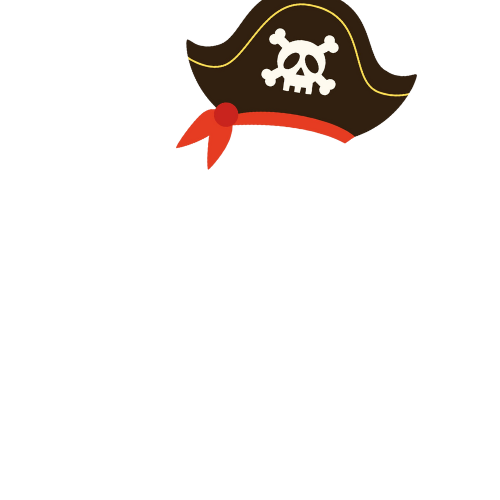
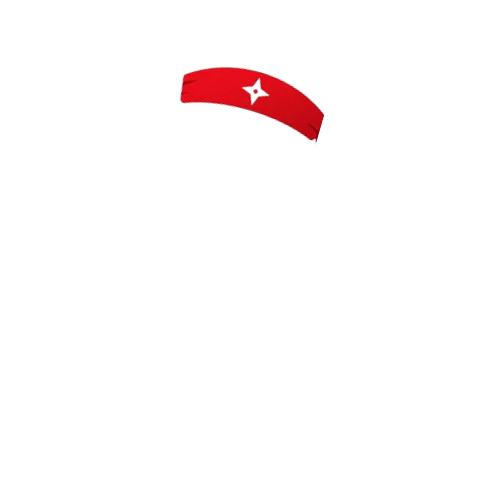
aaa

Changed region(s): [[0.36, 0.0, 0.84, 0.33]]

diff --git a/src/components/CatMeme.jsx b/src/components/CatMeme.jsx
@@ -5,7 +5,7 @@ import SelectionLayer from './SelectionLayer';
 const CatMeme = () => {
     const [selected, setSelected] = useState({
         background: '21.png',
-        character: '25.png',
+        character: '1.png',
         face: '',
         frontaccessory: '',
         hat: '',
@@ -13,12 +13,12 @@ const CatMeme = () => {
     });
 
     const [images, setImages] = useState({
-        background: ["21.png", "17.png", "18.png", "19.png", "20.png", "16.png"],
-        character: ["25.png", "22.png", "23.png", "24.png"],
-        face: ["8.png", "9.png", "10.png", "11.png", "12.png"],
-        frontAccessory: ["13.png", "14.png", "15.png",],
-        hat: ["3.png", "4.png", "5.png", "6.png", "7.png"],
-        // accessory: ["15.png", "16.png", "17.png", "18.png"] // Add your accessory images here
+        background: ["21.png", "22.png", "23.png", "24.png", "25.png", "26.png", "27.png"],
+        character: ["1.png", "28.png", "29.png", ],
+        face: ["2.png", "3.png", "9.png", "10.png", "11.png"],
+        frontAccessory: ["12.png", "13.png", "16.png", "15.png"],
+        hat: ["4.png", "5.png", "6.png", "7.png", "8.png"],
+        accessory: ["18.png", "19.png", "20.png",] // Add your accessory images here
     });
 
     return (
@@ -42,7 +42,7 @@ const CatMeme = () => {
                         <SelectionLayer selected={selected} images={images.face} layer={'face'} setSelected={setSelected} />
                         <SelectionLayer selected={selected} images={images.frontAccessory} layer={'frontaccessory'} setSelected={setSelected} />
                         <SelectionLayer selected={selected} images={images.hat} layer={'hat'} setSelected={setSelected} />
-                        {/* <SelectionLayer selected={selected} images={images.accessory} layer={'accessory'} setSelected={setSelected} /> */}
+                        <SelectionLayer selected={selected} images={images.accessory} layer={'accessory'} setSelected={setSelected} />
                     </div>
                     <div className='lg:w-1/2 sticky top-10'>
                         <OutputImage selected={selected} setSelected={setSelected} images={images} />

diff --git a/src/components/OutputImage.jsx b/src/components/OutputImage.jsx
@@ -13,7 +13,7 @@ const OutputImage = (props) => {
         face: { zIndex: 4, width: 500, height: 500, top: 0, left: 0 },
         frontaccessory: { zIndex: 3, width: 500, height: 500, top: 0, left: 0 },
         hat: { zIndex: 2, width: 500, height: 500, top: 0, left: 0 },
-        // accessory: { zIndex: 5, width: 500, height: 500, top: 0, left: 0 }
+        accessory: { zIndex: 5, width: 500, height: 500, top: 0, left: 0 }
     };
 
     const handleDownload = async () => {
@@ -30,7 +30,7 @@ const OutputImage = (props) => {
             { layer: 'face' },
             { layer: 'frontaccessory' },
             { layer: 'hat' },
-            // { layer: 'accessory' } // Add your new layer here
+            { layer: 'accessory' } // Add your new layer here
         ];
 
         // Function to load an image
@@ -69,7 +69,7 @@ const OutputImage = (props) => {
     const handleReset = () => {
         props.setSelected({
             background: '21.png',
-            character: '25.png',
+            character: '1.png',
             face: '',
             frontaccessory: '',
             hat: '',
@@ -84,7 +84,7 @@ const OutputImage = (props) => {
             hat: images.hat[Math.floor(Math.random() * images.hat.length)] || '',
             frontaccessory: images.frontAccessory[Math.floor(Math.random() * images.frontAccessory.length)] || '',
             character: images.character[Math.floor(Math.random() * images.character.length)] || '',
-            // accessory: images.accessory[Math.floor(Math.random() * images.accessory.length)] || ''
+            accessory: images.accessory[Math.floor(Math.random() * images.accessory.length)] || ''
         });
     };
 

diff --git a/src/components/Header.jsx b/src/components/Header.jsx
@@ -53,28 +53,28 @@ const Header = () => {
                 whileTap={{ scale: 0.9 }}
                 onClick={handleLinkClick}
               >
-                <a className="text-lg font-bold" href="#about">About Max</a>
+                <a className="text-lg font-bold" href="#about">About </a>
               </motion.li>
               <motion.li
                 whileHover={{ scale: 1.1 }}
                 whileTap={{ scale: 0.9 }}
                 onClick={handleLinkClick}
               >
-                <a className="text-lg font-bold" href="#meme-gen">Make a Max</a>
+                <a className="text-lg font-bold" href="#meme-gen">Make a HENRIE</a>
               </motion.li>
-              <motion.li
+              {/* <motion.li
                 whileHover={{ scale: 1.1 }}
                 whileTap={{ scale: 0.9 }}
                 onClick={handleLinkClick}
               >
                 <a className="text-lg font-bold" href="#buy">How to buy?</a>
-              </motion.li>
+              </motion.li> */}
               <motion.li
                 whileHover={{ scale: 1.1 }}
                 whileTap={{ scale: 0.9 }}
                 onClick={handleLinkClick}
               >
-                <a className="text-lg font-bold" href="#memes">Max Memes</a>
+                <a className="text-lg font-bold" href="#memes">HENRIE Memes</a>
               </motion.li>
               <motion.li
                 whileHover={{ scale: 1.1 }}
